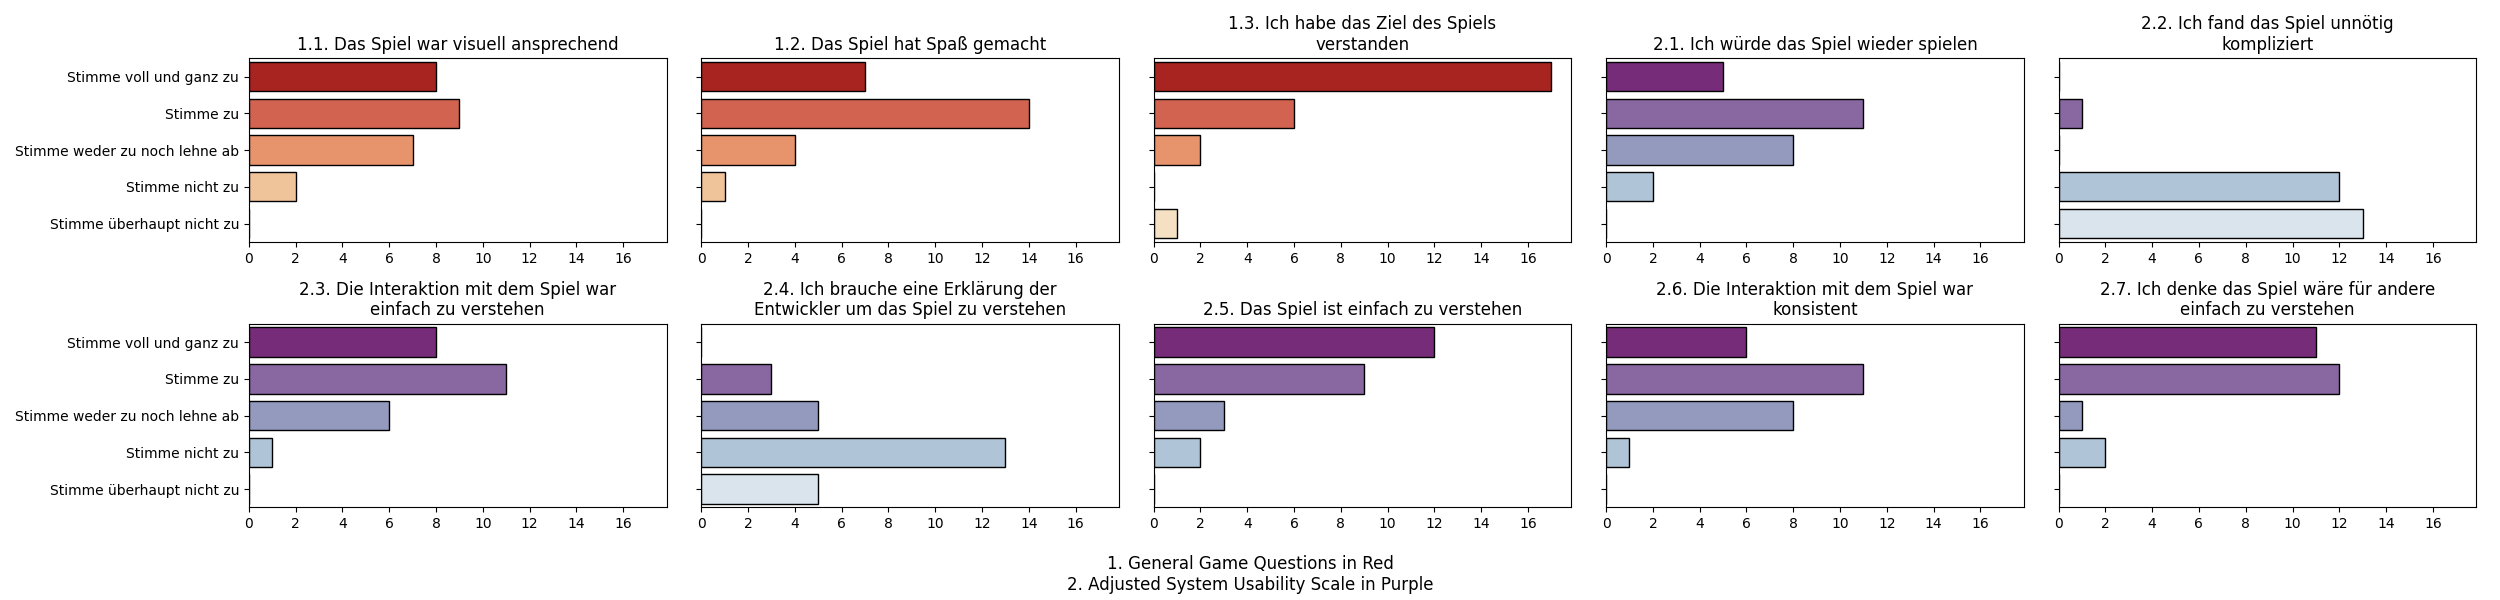
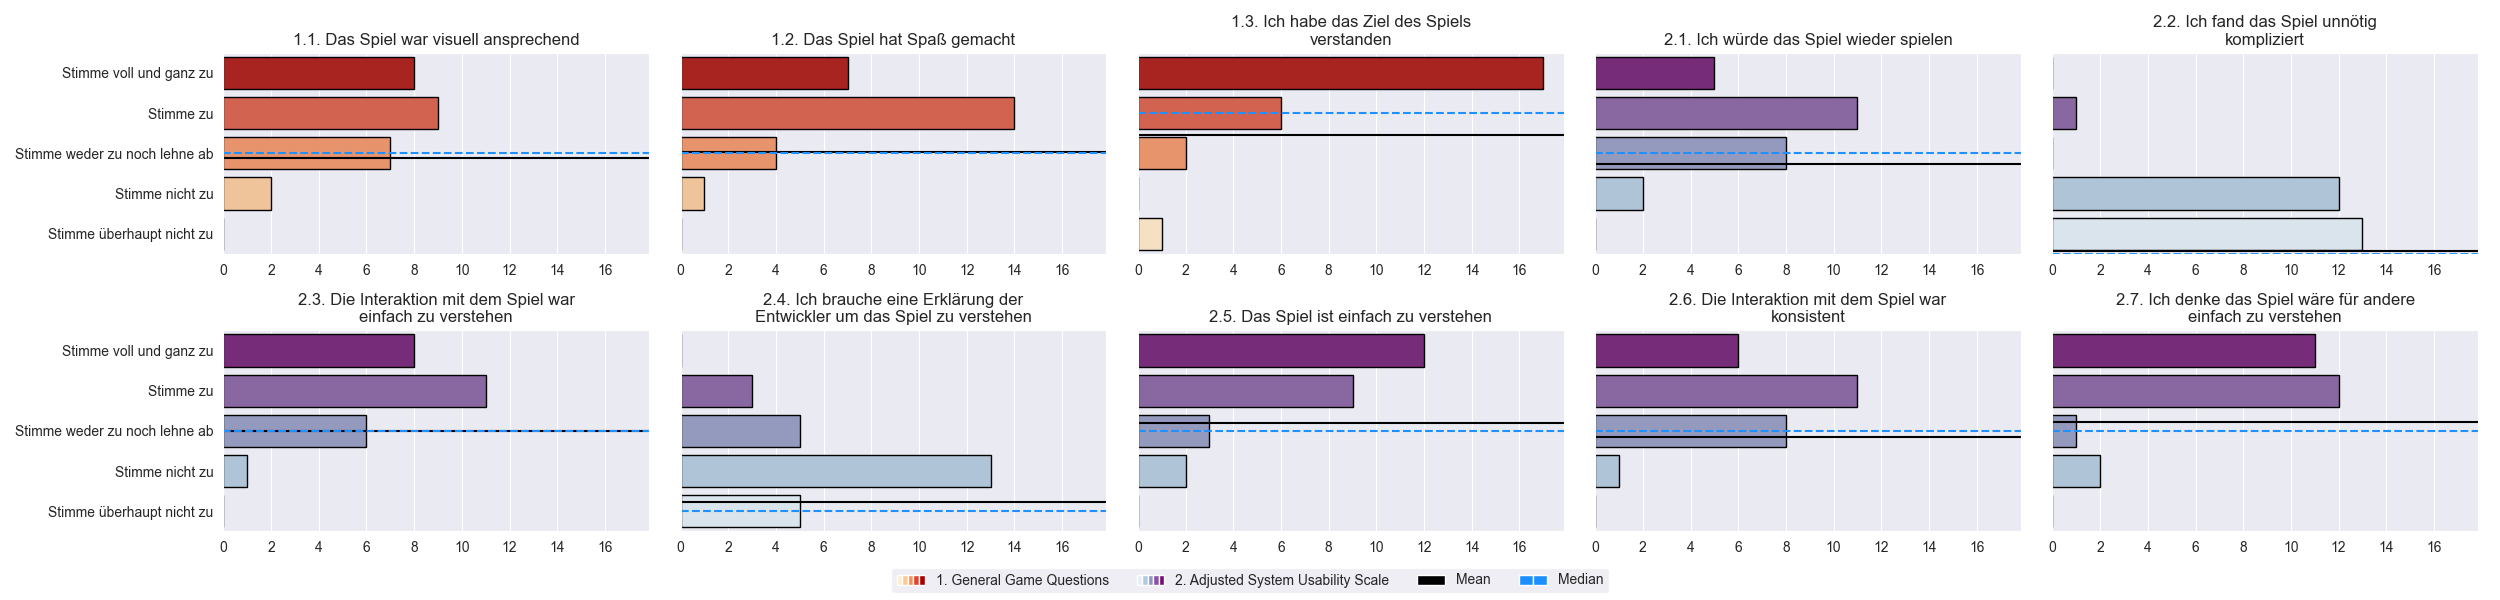
Added Legend, Added Median/Mean Line, Changed Graph Style

diff --git a/DataEvaluation.py b/DataEvaluation.py
@@ -1,12 +1,45 @@
 # Useful Reference i used for learning this: https://towardsdatascience.com/cleaning-analyzing-and-visualizing-survey-data-in-python-42747a13c713
+import pandas as pd
+import matplotlib.pyplot as plt
+from matplotlib.colors import LinearSegmentedColormap
+import matplotlib as mpl
+import seaborn as sns
+import numpy as np
+
+# Dont ignore Warings like this, but sometimes they bug me at debugging ;)
+import warnings
+warnings.filterwarnings('ignore')
 
 from random import gammavariate
-import pandas as pd
-
-import matplotlib.pyplot as plt
-import seaborn as sns
-
+from numpy import median, mean
 from textwrap import wrap
+
+# MatplotLib Legend Shit you dont necessarily need
+from matplotlib.patches import Patch
+from matplotlib.lines import Line2D
+from matplotlib.patches import Rectangle
+from matplotlib.legend_handler import HandlerBase
+
+# This Class is from this https://stackoverflow.com/questions/55501860/how-to-put-multiple-colormap-patches-in-a-matplotlib-legend answer that i found about creating colormap legends
+class HandlerColormap(HandlerBase):
+    def __init__(self, cmap, num_stripes=8, **kw):
+        HandlerBase.__init__(self, **kw)
+        self.cmap = cmap
+        self.num_stripes = num_stripes
+    def create_artists(self, legend, orig_handle, 
+                       xdescent, ydescent, width, height, fontsize, trans):
+        stripes = []
+        for i in range(self.num_stripes):
+            s = Rectangle([xdescent + i * width / self.num_stripes, ydescent], 
+                          width / self.num_stripes, 
+                          height, 
+                          fc=self.cmap((2 * i + 1) / (2 * self.num_stripes)), 
+                          transform=trans)
+            stripes.append(s)
+        return stripes
+
+# Legend shit over
+
 
 df = pd.read_csv('data.csv')
 drop = df.drop(columns=['Timestamp', 'Willst du uns noch irgendetwas sagen?'])
@@ -44,24 +77,40 @@ for df in TempLists:
 # BUGFIX SPECIFIC TO DATASET manually adding a 0 Count Row for a sub dataset that didnt have any responses with value '1'
 Lists[2].loc[1] = [0, 0, 0]
 
+TempLists = Lists
+Lists = []
+for df in TempLists:
+    # Again having weird referencing issues, maybe im stupid but for smaller usecase it doesnt hurt to bad to copy for cleanup
+    Lists.append(df.sort_index(ascending=True))
+
 # X Labels we want to use on our Graphs
 x = ['Stimme überhaupt nicht zu', 'Stimme nicht zu', 'Stimme weder zu noch lehne ab', 'Stimme zu', 'Stimme voll und ganz zu']
 
-def plot_subplot(column_count, row_count, df_columns, colorlist, name, deleteLastPlot=False, XLabel=''):
+# Setting your sns style to darkgrid, cause it looks cool (use whitegrid, if darkgrid doesnt fit with your colours)
+sns.set_style("darkgrid")
+
+def plot_subplot(column_count, row_count, df_columns, colorlist, name, deleteLastPlot=False, legend_labels=[], legend_cm=[]):
     fig, ax = plt.subplots(nrows=row_count, ncols=column_count, figsize=(5*column_count,3*row_count), sharey=True, sharex=True)
 
     for a, column_name, col in zip(ax.flatten(), df_columns, colorlist):
         # Here we wrap our column names so they linebreak after a certain char count to make our questions properly readable
         wrapped_column_name = ("\n".join(wrap(column_name, 40)))
 
-        print(wrapped_column_name)
-
         # Plotting our Graph
         sns.barplot(df_columns[column_name], x, palette = col, edgecolor = 'black', ax=a).set_title('{}'.format(wrapped_column_name))
 
         # Keeps x-axis tick labels for each group of plots
         a.xaxis.set_tick_params(which='both', labelbottom=True)
-        
+
+        # Add Mean / Median Values
+        # First we reverse our previous pandas value counts operation because otherwise np doesnt calculate mean/median correctly
+        reverseValueCounts = pd.Series(np.repeat(df_columns[column_name].index,df_columns[column_name]))
+        # We draw a line into our subplots that represents the mean / median values
+        # BUGFIX we -1 our median and mean values because otherwise they appear scuffed in our barplot, probably because the x labels might be starting at index 0 and not 1
+        mean = reverseValueCounts.mean() - 1
+        median = reverseValueCounts.median() - 1
+        a.axhline(mean - 1, c='k', ls='-', lw=1.5)
+        a.axhline(median - 1, c='dodgerblue', ls='--', lw=1.5)
         
         # Suppresses displaying the question along the y-axis and remove title from x-axis
         a.yaxis.label.set_visible(False)
@@ -71,7 +120,42 @@ def plot_subplot(column_count, row_count, df_columns, colorlist, name, deleteLas
     if(deleteLastPlot):
          fig.delaxes(ax[row_count-1, column_count-1])
     
-    fig.supxlabel(XLabel)
+    # We create some space below our plot to place our legend elements there, this is so tight layout knows it needs to keep space below the plot
+    # Potential BUG This can lead to errors if its not perfect, so you should probably remove this if you just want to generate a few plots to see without legend
+    fig.supxlabel(" ")
+    
+    # Creating a Custom Colormap for Black bar
+
+    blackdict = {'red':     ((0.0,  0.0, 0.0),
+                        (1.0,  0.0, 0.0)),
+            'green':    ((0.0,  0.0, 0.0),
+                        (1.0,  0.0, 0.0)),
+            'blue':     ((0.0,  0.0, 0.0),
+                        (1.0,  0.0, 0.0))}
+
+    dodgerbluedict = {'red':    ((0.0,  0.11, 0.11),
+                                (1.0,  0.11, 0.11)),
+                    'green':    ((0.0,  0.56, 0.56),
+                                (1.0,  0.56, 0.56)),
+                    'blue':     ((0.0,  1, 1),
+                                (1.0,  1, 1))}                    
+    
+    cmaps = [plt.cm.get_cmap(name=legend_cm[0]), plt.cm.get_cmap(name=legend_cm[1])]
+    solid_cmaps = [LinearSegmentedColormap('black', blackdict), LinearSegmentedColormap('dodgerblue', dodgerbluedict)] 
+
+    cmap_handles = [Rectangle((0, 0), 1, 1) for _ in cmaps]
+    mm_handles = [Rectangle((0, 0), 1, 1) for _ in solid_cmaps]
+
+    handler_map = dict(zip(cmap_handles, [HandlerColormap(cm, num_stripes=5) for cm in cmaps]))
+    handler_map.update({mm_handles[0]: HandlerColormap(solid_cmaps[0], num_stripes=1)})
+    handler_map.update({mm_handles[1]: HandlerColormap(solid_cmaps[1], num_stripes=2)})
+
+    all_handles = cmap_handles + mm_handles
+
+    labels = legend_labels + ["Mean", "Median"]
+
+    fig.legend(handles=all_handles, labels=labels, handler_map=handler_map ,loc='lower center', fancybox=True, ncol=4, edgecolor='w')
+    
     plt.gca().invert_yaxis()
     plt.tight_layout()
     plt.savefig('images/{}.png'.format(name))
@@ -82,11 +166,13 @@ plot2_name = 'Plot2_tight'
 # Creating a color list that repeats the color values x - column amount of times so our function has same length lists for the loop
 col_list = [c_map[0] for i in range(len(Lists[0].columns))] + [c_map[1] for i in range(len(Lists[1].columns))]
 
+cm_labels = []
+legend_text = []
 # Plotting our first subplot
-plot_subplot(5, 2, Lists[0].join(Lists[1]), col_list, plot1_name, XLabel='1. General Game Questions in Red\n2. Adjusted System Usability Scale in Purple')
+plot_subplot(5, 2, Lists[0].join(Lists[1]), col_list, plot1_name, legend_labels=['1. General Game Questions', '2. Adjusted System Usability Scale'], legend_cm=[c_map[0], c_map[1]])
 
 # Same as before, creating list of colors for specific plots with same amounts as columns
 col_list = [c_map[2] for i in range(len(Lists[2].columns))] + [c_map[3] for i in range(len(Lists[3].columns))]
 
 # Plotting our second subplot
-plot_subplot(4, 2, Lists[2].join(Lists[3]), col_list, plot2_name, deleteLastPlot=True, XLabel='3. Interconnected Nature in Green\n4. UI and Interaction in Orange')
+plot_subplot(4, 2, Lists[2].join(Lists[3]), col_list, plot2_name, deleteLastPlot=True, legend_labels=['3. Interconnected Nature', '4. UI and Interaction'], legend_cm=[c_map[2], c_map[3]])
